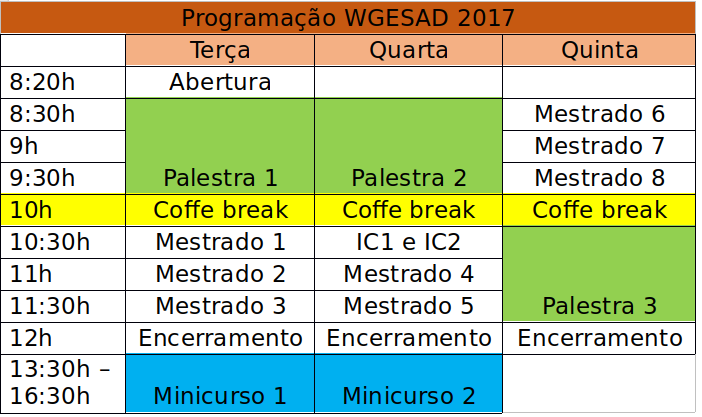
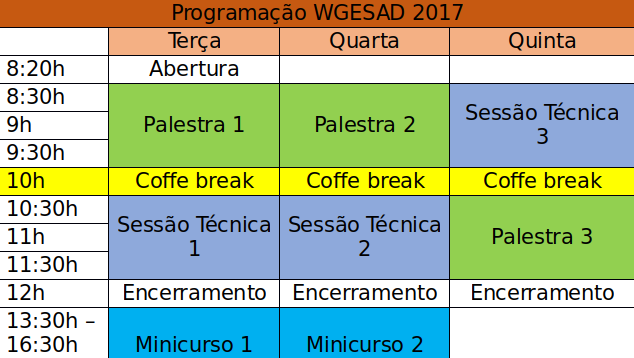
Alteração nas informações da Programação wgesad2017

diff --git a/_site/wgesad/index.html b/_site/wgesad/index.html
@@ -9,6 +9,11 @@
             text-align: justify;
           text-justify: inter-word;
         }
+        #tabela{
+          border-color: black;
+          border: solid 2px;
+          border-radius: 8px;
+        }
       </style>
       <meta name="viewport" content="width=device-width, initial-scale=1.0">
       <link rel="alternate" type="application/rss+xml" title="GESAD" href="https://gesad.github.io//feed.xml">
@@ -35,13 +40,12 @@
          </div>
       </div>
       <div class="container">
-         <div class="row">
-            <div class="col-md-12">
-               <div class="bigtitle"> GESAD / wgesad</div>
-               <h2>Programação WGESAD 2017</h2>
+         <div class="bigspacer"></div>
+          <div class="row">
+            <div class="col-md-5 col-md-offset-3">
+              <img id="tabela" src="/images/wgesad2017.png">
             </div>
          </div>
-         <div class="bigspacer"></div>
          <div class="row">
             <div class="col-md-1"></div>
             <div class="col-md-9">
@@ -134,21 +138,21 @@
                   <ul><li> 10:30h: Uma Abordagem de Suporte ao Gerenciamento de Riscos em Projetos de Software Usando o Paradigma GQM e Sistemas Multiagente (Thayse Alencar) </li>
                   <li>11h:  Uma Abordagem para a Gestão Inteligente de Recursos Humanos Utilizando Analise de Redes Sociais (Álvaro Oliveira) </li>
                   <li>11:30h: Editory - Uma ferramenta de autoria para criação de objetos de aprendizagem acessíveis (Alexandre Castelo Branco) </li></ul>
-                  <br> <p>&nbsp;</p><strong>Sessão Técnica 3 (Quinta – 08/08)  </strong>
+                  <br> <p>&nbsp;</p><strong>Sessão Técnica 3 (Quinta – 10/08)  </strong>
                   <ul><li> 8:30h: Bolsistas IC</li>
                   <li>9h: An Event-Driven Platform for Microservices Orchestration (Davi Monteiro)</li>
                   <li>9:30h: Scenarios@Runtime for Self-adaptive Systems (Rômulo Gadelha) </li></ul>
                   <br><p>&nbsp;</p> <h3><strong>Palestra 1: Computação Móvel em Nuvem &amp; Computação sensível a contexto: arrumando o CAOS</strong></h3>
-                   <small>Palestrante: Prof. Dr. Fernando Trinta (UFC)</small> <br>
+                   <small><strong>Palestrante:</strong> Prof. Dr. Fernando Trinta (UFC)</small> <br>
 	<p><small><strong>Resumo:</strong></small> Currently, mobile applications have become increasingly complex. One trend is the usage of contextual information gathered from device sensors and external data sources, which are used to improve the user experience when using mobile applications. As the amount of sensing data increases as well as the complexity of context inference procedures, it leads to an undesirable situation where the mobile device has not enough resources (e.g., memory capacity, processing speed, and battery power) to perform some computation tasks. This paper addresses this issue by proposing CAOS, a software platform that employs the offloading approach to enhance mobile context-aware applications. CAOS allows mobile application developers to offload processes and data into cloud and cloudlets infrastructures, aiming at improving the overall application performance and saving battery power. In order to assess our proposal, a reference implementation was built, and experiments were performed in order to evaluate performance and energy consumption of our proposal. Results showed gains in both aspects in most of scenarios, which denote the feasibility of the proposed solution.</p>
 <p><small><strong>Short bio:</strong></small> Fernando Trinta possui graduação em Ciência da Computação pela Universidade Federal do Maranhão (1996), mestrado (2000) e doutorado em Ciências da Computação pela Universidade Federal de Pernambuco (2007). Atualmente é professor/pesquisador da Universidade Federal do Ceará, vinculado ao Departamento de Computação, em Fortaleza. Tem experiência na área de Ciência da Computação, com ênfase em Sistemas Distribuídos, atuando principalmente nos seguintes temas: jogos móveis, jogos móveis massivamente multiusuário, java, trabalho cooperativo e autoria.</p>
 <br><h3><strong>Palestra 2: Data Science - um caminho a percorrer</strong></h3>
-<small>Palestrante: Me. Luiz Otávio Ferreira (Universidade de Coimbra)</small>
+<small><strong>Palestrante:</strong> Me. Luiz Otávio Ferreira (Universidade de Coimbra)</small>
 <p><small><strong>Resumo:</strong></small> O público visualizará as principais características tecnológicas, hardware e software, armazenamento e processamento, ferramentas de desenvolvimento, conceitos, pesquisas, a profissão e o profissional da área de ciências dos dados. </p>
 <p><small><strong>Short bio:</strong></small> Luiz Otávio é doutorando em Ciências Aplicada à Decisão, mestre em Ciências da Computação, MBA em gerenciamento de projetos, especialista em informática e graduado em Ciências Econômicas. Atua na área de TIC, analista de sistemas e professor universitário, desde 1991.</p>
 <br>
 <h3><strong>Palestra 3: Título: Software Unbundling: Desafios e Perspectivas</strong></h3>
-<small>Prof. Dr. Bosco Filho (UFC)</small>
+<small><strong>Palestrante: </strong>Prof. Dr. Bosco Filho (UFC)</small>
 <p><small><strong>Resumo:</strong> </small> Recentemente, várias empresas do setor de tecnologia da informação, principalmente de aplicações móveis, começaram a desmembrar suas aplicações densas e complexas em aplicações menores. Por exemplo, a aplicação móvel do Facebook desmembrou sua parte de troca de mensagens em uma nova aplicação, o Messenger; Foursquare teve sua funcionalidade de check-indesmembrada para a aplicação Swarm; LinkedIn realizou uma divisão maior da aplicação móvel, dando origem às aplicações Pulse,Connected, Job Search, Recruiter, Sales Navigator e Slide Share. Este fenômeno é chamado de divisão ou desmembramento de software (Software Unbundling) [1] e tem como objetivo principal simplificar estes artefatos, produzindo software mais especializado e focado para propósitos mais específicos. A divisão de software é uma atividade que geralmente não foi planejada e, portanto, imprevista pelas partes responsáveis pela engenharia da aplicação em questão—a divisão é uma evolução corretiva de um software maduro, uma modularização de alta granularidade e tardia. Esta palestra explanará o fenômeno de Software Unbundling, indicando desafios e perspectivas sob a ótica da Engenharia de Software.</p>
 
 <p><small><strong>Short bio:</strong></small> Bosco Filho possui doutorado em Ciência da Computação pela Université Rennes 1 (França, 2014), mestrado em Ciência da Computação pela Universidade Federal do Ceará (2011) e graduação em Ciência da Computação pela Universidade Estadual do Ceará (2008). Bosco foi pesquisador de pós-doutorado na faculdade de Ciência da Computação da Universidade de Birmingham na Inglaterra. Bosco Ferreira possui experiência em pesquisa, desenvolvimento e inovação em Ciência da Computação, e sua atuação é centrada nas áreas de Engenharia de Software e representação de conhecimento, especialmente Engenharia de Software baseada em Modelos, Gestão da Variabilidade e Composição de Software. Atualmente, Bosco é professor adjunto no Departamento de Ciência da Computação da Universidade Federal do Ceará.</p>
@@ -156,12 +160,12 @@
 <small>Duração: 3h</small>
 <p><small><strong>Resumo:</strong></small> Angular é um framework de JavaScript que provê o desenvolvimento web baseado em componente, isto é, elementos básicos que compõem a aplicação (inclusive a Interface Gráfica). Com a integração com HTML na forma de diretivas, uma aplicação em Angular consegue, ao mesmo tempo, ser performática, fluida e com o código bem enxuto. É o futuro do desenvolvimento Web. Nesse curso, você vai conhecer toda a arquitetura de uma aplicação Angular, em sua última versão, e ainda vai conhecer um pouco sobre o mundo dos bancos de dados não-relacionais e qual o impacto deles na performance geral.
 </p>
-<small>Facilitador: Washington Praxedes</small>
+<small><strong>Facilitador:</strong> Washington Praxedes</small>
 <p><small><strong>Mini CV:</strong></small> Washington é aluno do curso de Ciências da Computação da Universidade Estadual do Ceará. Participou de dois programas de Iniciação Científica financiados pela FUNCAP. Já trabalhou com Visão Computacional e com construção de nuvem com OpenStack. Atualmente trabalha na Trílogo Tecnologia, empresa de software que atua com tecnologias como ASP.NET, Ionic, Angular, Bancos não-relacionais (Firebase) e relacionais (SQLServer). É entusiasta pelo que há de novo no ramo da tecnologia e hoje tenta mergulhar no mundo do IoT.</p>
 <br><h3><strong>Minicurso 2: Introdução ao Clear Code</strong></h3>
-<small>Duração: 3h</small>
+<small>Duração: 2h</small>
 <p><small><strong>Resumo:</strong></small> Código Limpo é um código elegante que busca uma fácil leitura e um fácil entendimento. A lógica deve ser direta para dificultar o encobrimento de bugs, as dependências mínimas para facilitar a manutenção. Ele jamais torna confuso o objetivo do desenvolvedor, em vezes disso, ele está repleto de abstrações claras e linhas de controle objetivas. Existem padrões e boas práticas que guiam o programador para produzir um código limpo. Nesse minicurso será abordado as principais práticas para se alcançar código limpo e como essas práticas iram aumentar a produtividade de um desenvolvedor.</p>
-<small>Facilitador:</small> Lucas Vieira
+<small><strong>Facilitador:</strong> Lucas Vieira</small>
 <p><small><strong>Mini CV:</strong></small> Lucas é aluno do curso de Ciência da Computação na Universidade Estadual do Ceará. Foi bolsista de iniciação científica do Cnpq por 2 anos onde trabalhou com linguagem Java e JavaFx para a construção de uma ferramenta de modelagem gráfica de comportamento de software. Atualmente trabalha na Softbuilder Informatica desenvolvendo soluções na plataforma Android com ênfase em aplicativos de vendas.</p>
 <br>  
 
@@ -171,11 +175,7 @@
             </div>
             <div class="col-md-1"></div>
          </div>
-           <div class="row">
-           <div class="col-md-5 col-md-offset-3">
-                    <img src="/images/wgesad2017.png">
-                  </div>
-         </div>
+         
       </div>
       <div id="footer-div">
       <div id="footer-logo"></div>

diff --git a/wgesad/index.html b/wgesad/index.html
@@ -9,6 +9,11 @@
             text-align: justify;
           text-justify: inter-word;
         }
+        #tabela{
+          border-color: black;
+          border: solid 2px;
+          border-radius: 8px;
+        }
       </style>
       <meta name="viewport" content="width=device-width, initial-scale=1.0">
       <link rel="alternate" type="application/rss+xml" title="GESAD" href="https://gesad.github.io//feed.xml">
@@ -35,13 +40,12 @@
          </div>
       </div>
       <div class="container">
-         <div class="row">
-            <div class="col-md-12">
-               <div class="bigtitle"> GESAD / wgesad</div>
-               <h2>Programação WGESAD 2017</h2>
+         <div class="bigspacer"></div>
+          <div class="row">
+            <div class="col-md-5 col-md-offset-3">
+              <img id="tabela" src="/images/wgesad2017.png">
             </div>
          </div>
-         <div class="bigspacer"></div>
          <div class="row">
             <div class="col-md-1"></div>
             <div class="col-md-9">
@@ -134,21 +138,21 @@
                   <ul><li> 10:30h: Uma Abordagem de Suporte ao Gerenciamento de Riscos em Projetos de Software Usando o Paradigma GQM e Sistemas Multiagente (Thayse Alencar) </li>
                   <li>11h:  Uma Abordagem para a Gestão Inteligente de Recursos Humanos Utilizando Analise de Redes Sociais (Álvaro Oliveira) </li>
                   <li>11:30h: Editory - Uma ferramenta de autoria para criação de objetos de aprendizagem acessíveis (Alexandre Castelo Branco) </li></ul>
-                  <br> <p>&nbsp;</p><strong>Sessão Técnica 3 (Quinta – 08/08)  </strong>
+                  <br> <p>&nbsp;</p><strong>Sessão Técnica 3 (Quinta – 10/08)  </strong>
                   <ul><li> 8:30h: Bolsistas IC</li>
                   <li>9h: An Event-Driven Platform for Microservices Orchestration (Davi Monteiro)</li>
                   <li>9:30h: Scenarios@Runtime for Self-adaptive Systems (Rômulo Gadelha) </li></ul>
                   <br><p>&nbsp;</p> <h3><strong>Palestra 1: Computação Móvel em Nuvem &amp; Computação sensível a contexto: arrumando o CAOS</strong></h3>
-                   <small>Palestrante: Prof. Dr. Fernando Trinta (UFC)</small> <br>
+                   <small><strong>Palestrante:</strong> Prof. Dr. Fernando Trinta (UFC)</small> <br>
 	<p><small><strong>Resumo:</strong></small> Currently, mobile applications have become increasingly complex. One trend is the usage of contextual information gathered from device sensors and external data sources, which are used to improve the user experience when using mobile applications. As the amount of sensing data increases as well as the complexity of context inference procedures, it leads to an undesirable situation where the mobile device has not enough resources (e.g., memory capacity, processing speed, and battery power) to perform some computation tasks. This paper addresses this issue by proposing CAOS, a software platform that employs the offloading approach to enhance mobile context-aware applications. CAOS allows mobile application developers to offload processes and data into cloud and cloudlets infrastructures, aiming at improving the overall application performance and saving battery power. In order to assess our proposal, a reference implementation was built, and experiments were performed in order to evaluate performance and energy consumption of our proposal. Results showed gains in both aspects in most of scenarios, which denote the feasibility of the proposed solution.</p>
 <p><small><strong>Short bio:</strong></small> Fernando Trinta possui graduação em Ciência da Computação pela Universidade Federal do Maranhão (1996), mestrado (2000) e doutorado em Ciências da Computação pela Universidade Federal de Pernambuco (2007). Atualmente é professor/pesquisador da Universidade Federal do Ceará, vinculado ao Departamento de Computação, em Fortaleza. Tem experiência na área de Ciência da Computação, com ênfase em Sistemas Distribuídos, atuando principalmente nos seguintes temas: jogos móveis, jogos móveis massivamente multiusuário, java, trabalho cooperativo e autoria.</p>
 <br><h3><strong>Palestra 2: Data Science - um caminho a percorrer</strong></h3>
-<small>Palestrante: Me. Luiz Otávio Ferreira (Universidade de Coimbra)</small>
+<small><strong>Palestrante:</strong> Me. Luiz Otávio Ferreira (Universidade de Coimbra)</small>
 <p><small><strong>Resumo:</strong></small> O público visualizará as principais características tecnológicas, hardware e software, armazenamento e processamento, ferramentas de desenvolvimento, conceitos, pesquisas, a profissão e o profissional da área de ciências dos dados. </p>
 <p><small><strong>Short bio:</strong></small> Luiz Otávio é doutorando em Ciências Aplicada à Decisão, mestre em Ciências da Computação, MBA em gerenciamento de projetos, especialista em informática e graduado em Ciências Econômicas. Atua na área de TIC, analista de sistemas e professor universitário, desde 1991.</p>
 <br>
 <h3><strong>Palestra 3: Título: Software Unbundling: Desafios e Perspectivas</strong></h3>
-<small>Prof. Dr. Bosco Filho (UFC)</small>
+<small><strong>Palestrante: </strong>Prof. Dr. Bosco Filho (UFC)</small>
 <p><small><strong>Resumo:</strong> </small> Recentemente, várias empresas do setor de tecnologia da informação, principalmente de aplicações móveis, começaram a desmembrar suas aplicações densas e complexas em aplicações menores. Por exemplo, a aplicação móvel do Facebook desmembrou sua parte de troca de mensagens em uma nova aplicação, o Messenger; Foursquare teve sua funcionalidade de check-indesmembrada para a aplicação Swarm; LinkedIn realizou uma divisão maior da aplicação móvel, dando origem às aplicações Pulse,Connected, Job Search, Recruiter, Sales Navigator e Slide Share. Este fenômeno é chamado de divisão ou desmembramento de software (Software Unbundling) [1] e tem como objetivo principal simplificar estes artefatos, produzindo software mais especializado e focado para propósitos mais específicos. A divisão de software é uma atividade que geralmente não foi planejada e, portanto, imprevista pelas partes responsáveis pela engenharia da aplicação em questão—a divisão é uma evolução corretiva de um software maduro, uma modularização de alta granularidade e tardia. Esta palestra explanará o fenômeno de Software Unbundling, indicando desafios e perspectivas sob a ótica da Engenharia de Software.</p>
 
 <p><small><strong>Short bio:</strong></small> Bosco Filho possui doutorado em Ciência da Computação pela Université Rennes 1 (França, 2014), mestrado em Ciência da Computação pela Universidade Federal do Ceará (2011) e graduação em Ciência da Computação pela Universidade Estadual do Ceará (2008). Bosco foi pesquisador de pós-doutorado na faculdade de Ciência da Computação da Universidade de Birmingham na Inglaterra. Bosco Ferreira possui experiência em pesquisa, desenvolvimento e inovação em Ciência da Computação, e sua atuação é centrada nas áreas de Engenharia de Software e representação de conhecimento, especialmente Engenharia de Software baseada em Modelos, Gestão da Variabilidade e Composição de Software. Atualmente, Bosco é professor adjunto no Departamento de Ciência da Computação da Universidade Federal do Ceará.</p>
@@ -156,12 +160,12 @@
 <small>Duração: 3h</small>
 <p><small><strong>Resumo:</strong></small> Angular é um framework de JavaScript que provê o desenvolvimento web baseado em componente, isto é, elementos básicos que compõem a aplicação (inclusive a Interface Gráfica). Com a integração com HTML na forma de diretivas, uma aplicação em Angular consegue, ao mesmo tempo, ser performática, fluida e com o código bem enxuto. É o futuro do desenvolvimento Web. Nesse curso, você vai conhecer toda a arquitetura de uma aplicação Angular, em sua última versão, e ainda vai conhecer um pouco sobre o mundo dos bancos de dados não-relacionais e qual o impacto deles na performance geral.
 </p>
-<small>Facilitador: Washington Praxedes</small>
+<small><strong>Facilitador:</strong> Washington Praxedes</small>
 <p><small><strong>Mini CV:</strong></small> Washington é aluno do curso de Ciências da Computação da Universidade Estadual do Ceará. Participou de dois programas de Iniciação Científica financiados pela FUNCAP. Já trabalhou com Visão Computacional e com construção de nuvem com OpenStack. Atualmente trabalha na Trílogo Tecnologia, empresa de software que atua com tecnologias como ASP.NET, Ionic, Angular, Bancos não-relacionais (Firebase) e relacionais (SQLServer). É entusiasta pelo que há de novo no ramo da tecnologia e hoje tenta mergulhar no mundo do IoT.</p>
 <br><h3><strong>Minicurso 2: Introdução ao Clear Code</strong></h3>
-<small>Duração: 3h</small>
+<small>Duração: 2h</small>
 <p><small><strong>Resumo:</strong></small> Código Limpo é um código elegante que busca uma fácil leitura e um fácil entendimento. A lógica deve ser direta para dificultar o encobrimento de bugs, as dependências mínimas para facilitar a manutenção. Ele jamais torna confuso o objetivo do desenvolvedor, em vezes disso, ele está repleto de abstrações claras e linhas de controle objetivas. Existem padrões e boas práticas que guiam o programador para produzir um código limpo. Nesse minicurso será abordado as principais práticas para se alcançar código limpo e como essas práticas iram aumentar a produtividade de um desenvolvedor.</p>
-<small>Facilitador:</small> Lucas Vieira
+<small><strong>Facilitador:</strong> Lucas Vieira</small>
 <p><small><strong>Mini CV:</strong></small> Lucas é aluno do curso de Ciência da Computação na Universidade Estadual do Ceará. Foi bolsista de iniciação científica do Cnpq por 2 anos onde trabalhou com linguagem Java e JavaFx para a construção de uma ferramenta de modelagem gráfica de comportamento de software. Atualmente trabalha na Softbuilder Informatica desenvolvendo soluções na plataforma Android com ênfase em aplicativos de vendas.</p>
 <br>  
 
@@ -171,11 +175,7 @@
             </div>
             <div class="col-md-1"></div>
          </div>
-           <div class="row">
-           <div class="col-md-5 col-md-offset-3">
-                    <img src="/images/wgesad2017.png">
-                  </div>
-         </div>
+         
       </div>
       <div id="footer-div">
       <div id="footer-logo"></div>
